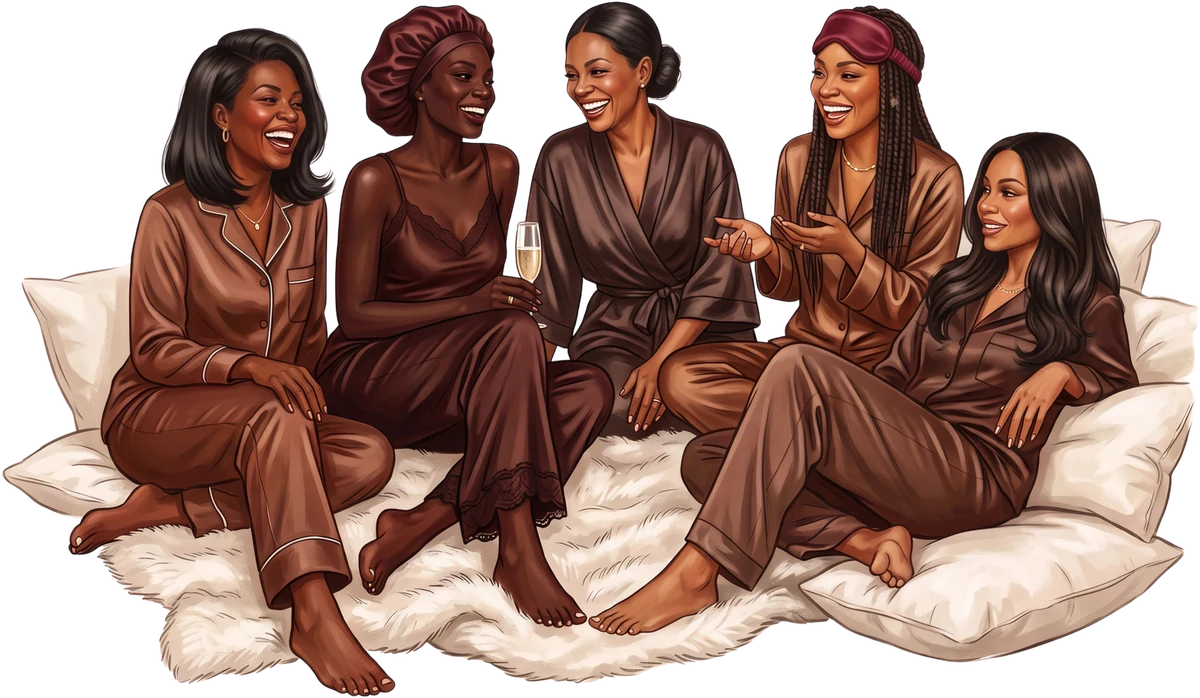
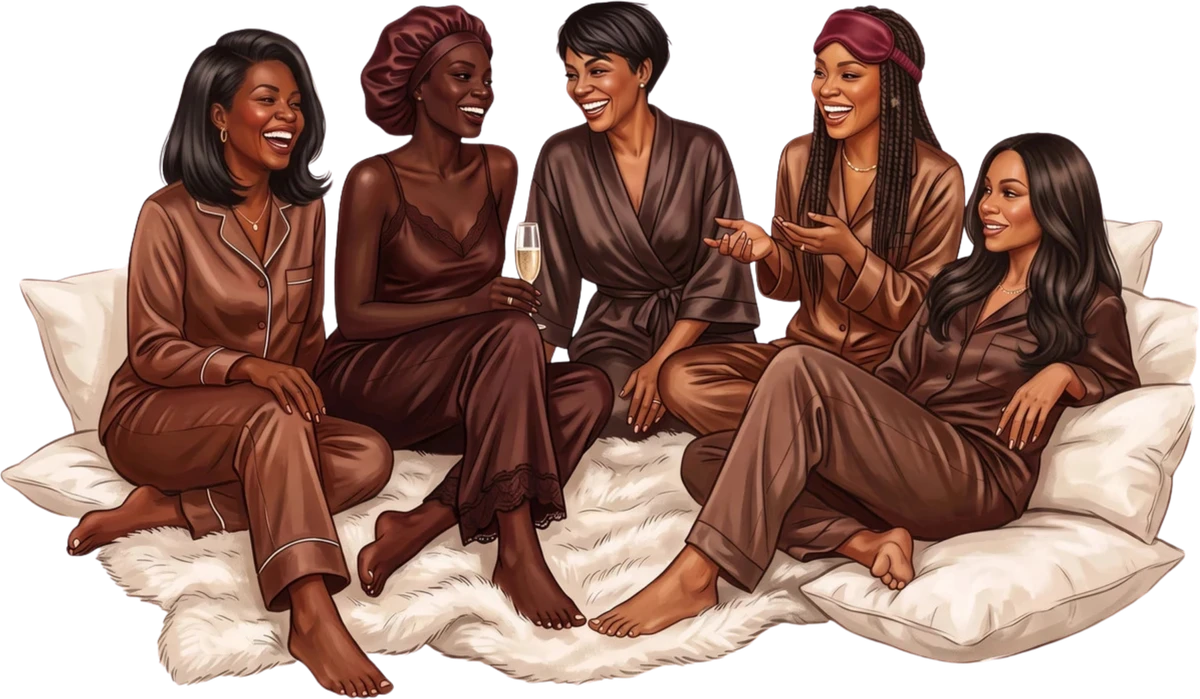
Getting Cozy: Q with pixie cut (Sara's cutout)
Claude-Session: https://claude.ai/code/session_01QqMVMjCGuvsXuwYKzk8CGA

diff --git a/index.html b/index.html
@@ -560,7 +560,7 @@ footer{overflow:visible}
       <h2>We Get Cozy</h2>
       <p class="lead">Pajamas and pillow talk<br>until the city lights go out.</p>
       <div class="pjnote">CHOCOLATE PJS · NO NEED TO MATCH</div>
-      <div class="art"><img src="pajamas.webp?v=3" alt="Friends in chocolate pajamas"></div>
+      <div class="art"><img src="pajamas.webp?v=4" alt="Friends in chocolate pajamas"></div>
     </article>
 
     <img class="sep" src="divider.webp" alt="">
